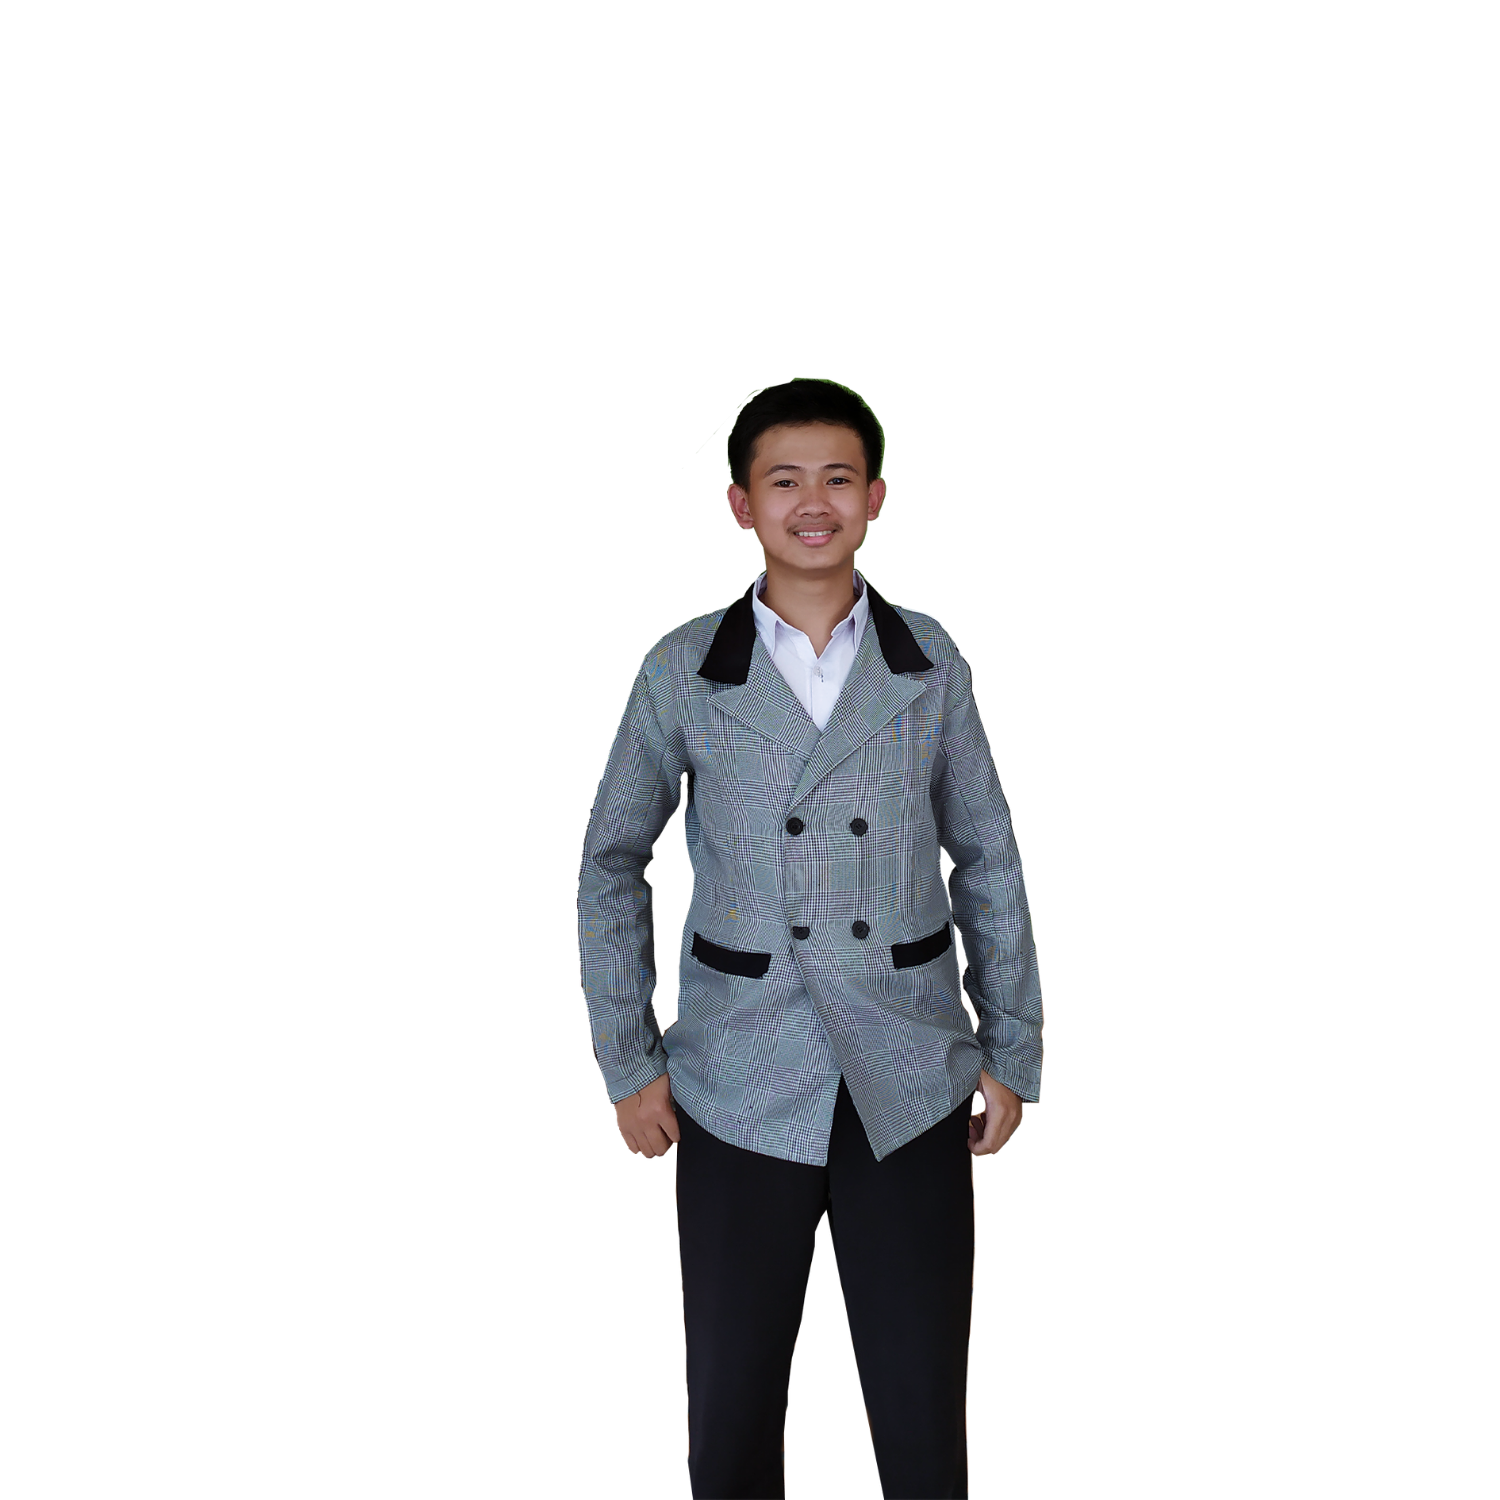
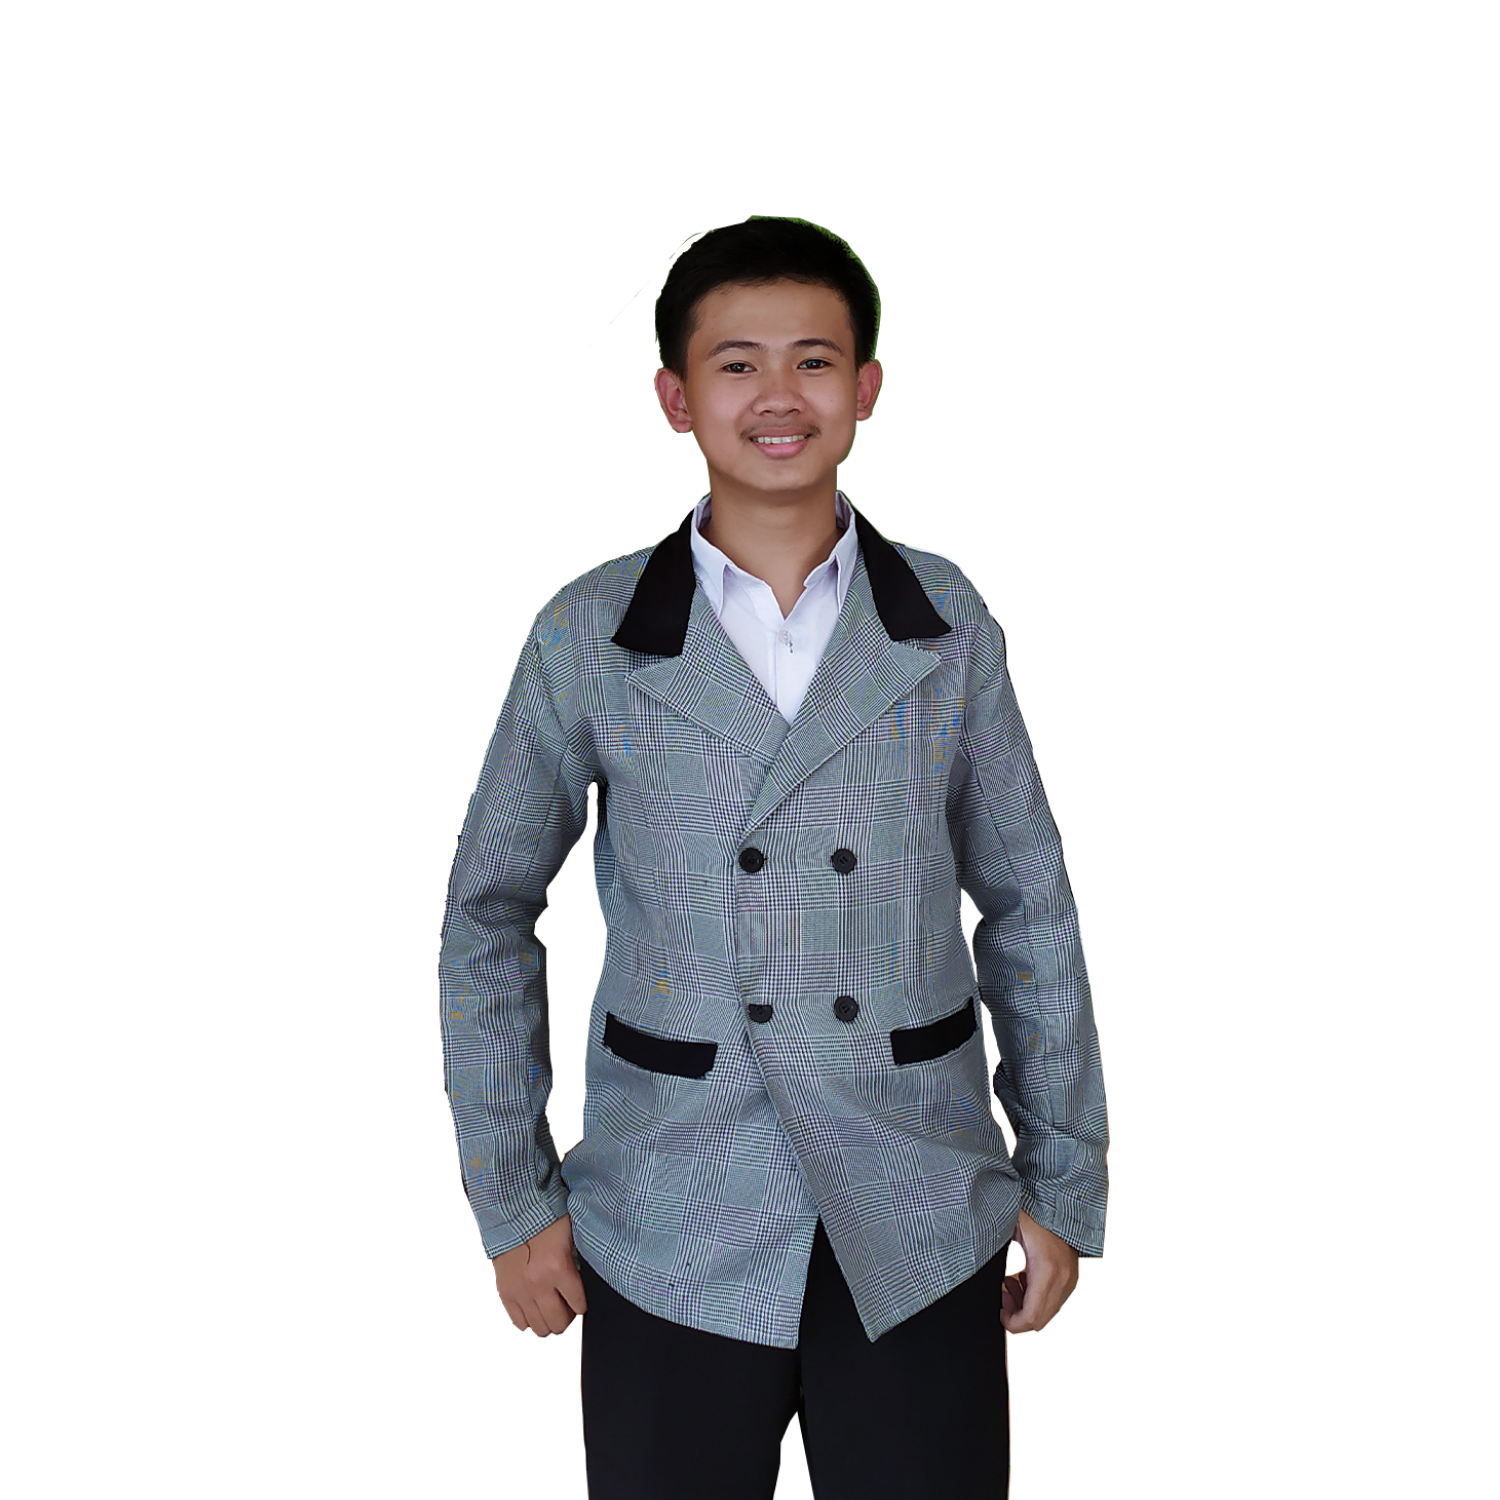
first commit

Changed region(s): [[0.276, 0.1227, 0.7667, 1.0]]

diff --git a/index.html b/index.html
@@ -45,7 +45,7 @@
     <div class="d-flex flex-column">
 
       <div class="profile">
-        <img src="assets/img/Desain tanpa judul.png" alt="" class="img-fluid rounded-circle">
+        <img src="assets/img/profile-ardi.jpg" alt="" class="img-fluid rounded-circle">
         <h1 class="text-light"><a href="index.html">Ardiyansah</a></h1>
         <div class="social-links mt-3 text-center">
           <!-- <a href="#" class="twitter"><i class="bx bxl-twitter"></i></a> -->
@@ -89,7 +89,7 @@
 
         <div class="row">
           <div class="col-lg-4" data-aos="fade-right">
-            <img src="assets/img/profile-ardi.jpg" class="img-fluid" alt="">
+            <img src="assets/img/Desain tanpa judul.png" class="img-fluid" alt="">
           </div>
           <div class="col-lg-8 pt-4 pt-lg-0 content" data-aos="fade-left">
             <h3>Web Developer.</h3>
